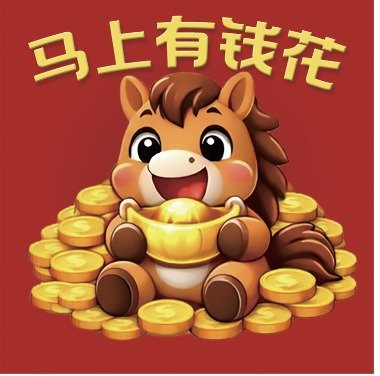
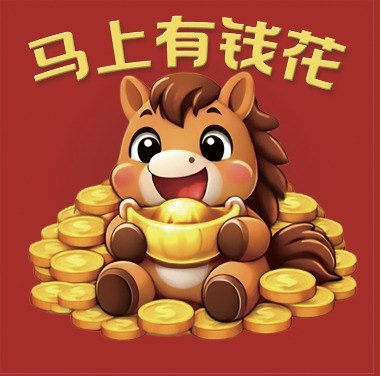
Red envelope shape on try page; remove white edge from pony art

Changed region(s): [[0.0, 0.0, 1.0, 1.0]]

diff --git a/style.css b/style.css
@@ -214,6 +214,52 @@ a { color: inherit; }
 .stage.square img { width: min(72vh, 58vw, 600px); border-radius: 8px; }
 .stage.tall img { height: min(76vh, 800px); max-width: 58vw; }
 
+.red-envelope {
+  --red: #a52e2a;
+  width: min(54vh, 40vw, 440px);
+  background: var(--red);
+  border-radius: 16px;
+  overflow: hidden;
+  box-shadow: inset 0 0 0 6px var(--red), inset 0 0 0 7.5px rgba(232, 190, 92, 0.75), 0 24px 60px rgba(0, 0, 0, 0.6);
+  padding-bottom: 7%;
+  display: flex;
+  flex-direction: column;
+}
+.red-envelope .flap {
+  position: relative;
+  aspect-ratio: 100 / 38;
+}
+.red-envelope .flap::before {
+  content: "";
+  position: absolute;
+  inset: 0;
+  background: linear-gradient(180deg, #7f1f1c, #922622);
+  clip-path: polygon(0 0, 100% 0, 100% 34%, 50% 100%, 0 34%);
+}
+.red-envelope .flap::after {
+  content: "";
+  position: absolute;
+  inset: 0;
+  background: rgba(232, 190, 92, 0.7);
+  clip-path: polygon(0 34%, 50% 100%, 100% 34%, 100% calc(34% + 1.5px), 50% calc(100% + 1.5px), 0 calc(34% + 1.5px));
+}
+.red-envelope .seal {
+  position: absolute;
+  left: 50%;
+  bottom: 6%;
+  transform: translateX(-50%);
+  width: 19%;
+  aspect-ratio: 1;
+  border-radius: 50%;
+  display: grid;
+  place-items: center;
+  background: radial-gradient(circle at 35% 30%, #f6dc8c, #d9a83c 60%, #b8862a);
+  box-shadow: 0 3px 10px rgba(0, 0, 0, 0.35), inset 0 0 0 2px rgba(255, 240, 200, 0.5);
+  color: #a52e2a;
+  font: 700 clamp(16px, 2.6vw, 30px)/1 "Songti SC", "Noto Serif SC", serif;
+}
+.stage .red-envelope img { width: 100%; height: auto; border-radius: 0; }
+
 .stage img.spinning { animation: spin var(--spin-duration) linear infinite; will-change: transform; }
 .stage img.paused { animation-play-state: paused; }
 @keyframes spin { to { transform: rotate(360deg); } }
@@ -302,5 +348,6 @@ a { color: inherit; }
   .stage.round img { width: min(86vw, 520px); }
   .stage.square img { width: min(86vw, 520px); }
   .stage.tall img { height: auto; width: min(70vw, 360px); max-width: none; }
+  .red-envelope { width: min(78vw, 400px); }
   .panel { border-left: 0; border-top: 1px solid var(--line); max-height: none; position: static; padding-top: 28px; }
 }

diff --git a/try.html b/try.html
@@ -59,6 +59,14 @@
     document.title = 'Try · ' + c.title;
     $('stage').className = 'stage ' + c.shape;
     $('marker').src = c.marker;
+    if (c.shape === 'envelope') {
+      const env = document.createElement('div');
+      env.className = 'red-envelope';
+      env.innerHTML = '<div class="flap" aria-hidden="true"><span class="seal">福</span></div>';
+      const img = $('marker');
+      img.replaceWith(env);
+      env.appendChild(img);
+    }
     $('tags').textContent = c.tags.concat(c.sound ? ['Sound on'] : []).join(' · ');
     $('title').textContent = c.title;
     $('en').textContent = c.sub;

diff --git a/cases.js b/cases.js
@@ -67,7 +67,7 @@ window.AR_CASES = [
     marker: "assets/unseen-horse.jpg",
     thumb: "assets/thumb-unseen-horse.jpg",
     anim: "assets/envelope-anim.mp4",
-    shape: "square",
+    shape: "envelope",
     spin: false,
     sound: true,
     steps: ["Scan the QR code with your phone and tap Start", "Point your phone at the pony on the left", "Turn your sound on and watch it move"]
